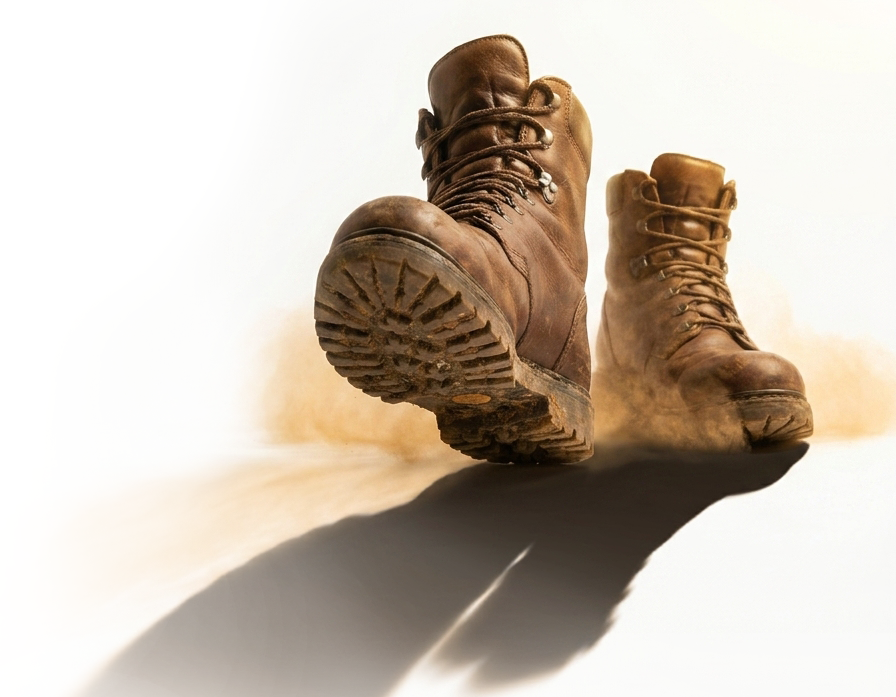
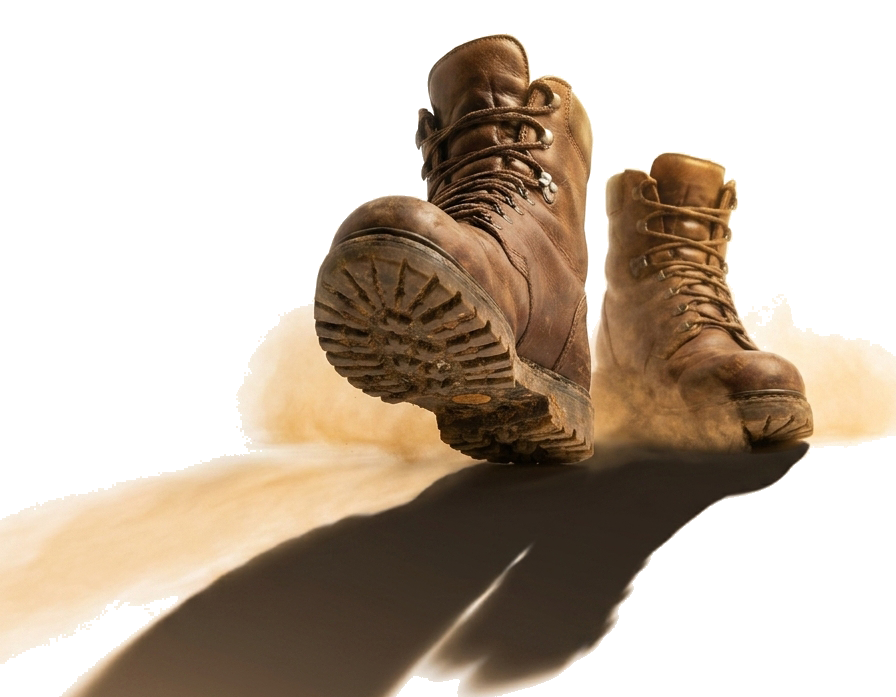
Swap hero to v3 boots; anchor to hero bottom
Switches the hero asset to hiking-boots-v3.png and positions it with
bottom: 80/60 (desktop/mobile) instead of top, so the boots sit just
above the bottom ledger rather than floating in the upper hero. v3 is
whitepoint-cleaned (51% pure white) so multiply leaves no halo.

https://claude.ai/code/session_01GgvrzpWmDgxHPsL2up3mK2

Changed region(s): [[0.0, 0.5725, 0.6875, 1.0], [0.3125, 0.4218, 0.3438, 0.4519]]

diff --git a/V3Hero.jsx b/V3Hero.jsx
@@ -9,7 +9,7 @@ function V3Hero() {
       <div style={{ position: "absolute", inset: 0, background: "repeating-linear-gradient(45deg, rgba(20,16,12,0.06) 0 1.5px, transparent 1.5px 6px)", mixBlendMode: "multiply", pointerEvents: "none" }} />
 
       {/* FLOATING HIKING BOOTS — scales with viewport, sits behind copy on mobile */}
-      <img src="assets/hiking-boots-v2.png?v=3" alt="" style={{ position: "absolute", right: isMobile ? "-20vw" : -40, top: isMobile ? 180 : 210, width: "min(720px, 92vw)", maxWidth: 720, mixBlendMode: "multiply", filter: "contrast(1.05) saturate(0.9)", transform: "rotate(-4deg)", pointerEvents: "none", zIndex: 1, opacity: isMobile ? 0.55 : 1 }} />
+      <img src="assets/hiking-boots-v3.png?v=1" alt="" style={{ position: "absolute", right: isMobile ? "-20vw" : -40, bottom: isMobile ? 60 : 80, width: "min(720px, 92vw)", maxWidth: 720, mixBlendMode: "multiply", filter: "contrast(1.05) saturate(0.9)", transform: "rotate(-4deg)", pointerEvents: "none", zIndex: 1, opacity: isMobile ? 0.55 : 1 }} />
 
       {/* MAIN PHRASE */}
       <div style={{ position: "relative", padding: "clamp(48px, 8vw, 80px) clamp(20px, 5vw, 64px)", zIndex: 3 }}>
